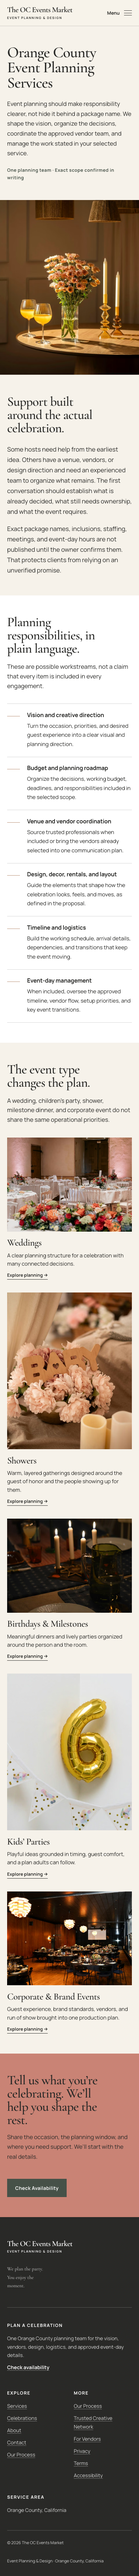
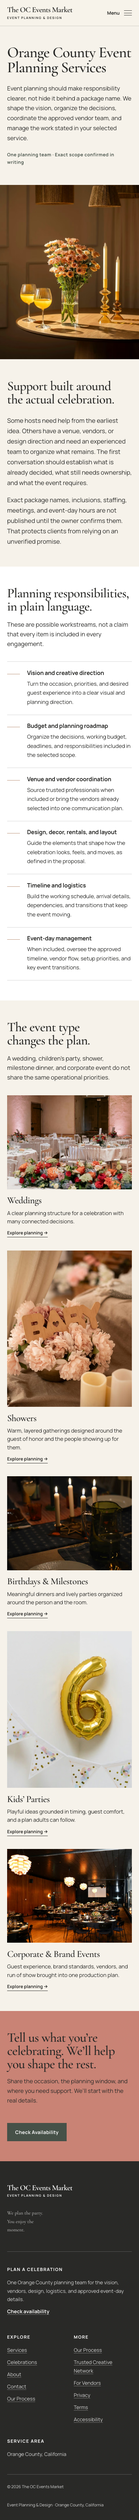
Balance mobile heading wraps

Changed region(s): [[0.0, 0.0, 1.0, 0.9993], [0.5231, 0.9056, 0.7385, 0.9681], [0.8615, 0.687, 0.9231, 0.7182]]

diff --git a/tests/e2e/site.spec.ts b/tests/e2e/site.spec.ts
@@ -3,7 +3,7 @@ import { publicRoutes } from '../helpers/routes';
 
 test.describe('site contracts', () => {
   for (const route of publicRoutes) {
-    test(`${route} has valid structure and metadata`, async ({ page }) => {
+    test(`${route} has valid structure and metadata`, async ({ page, viewport }) => {
       const response = await page.goto(route, { waitUntil: 'domcontentloaded' });
       expect(response?.status(), route).toBe(200);
       await expect(page.locator('main')).toHaveCount(1);
@@ -19,6 +19,42 @@ test.describe('site contracts', () => {
         () => document.documentElement.scrollWidth - window.innerWidth,
       );
       expect(overflow, `${route} horizontal overflow`).toBeLessThanOrEqual(1);
+
+      if (viewport && viewport.width <= 767) {
+        const headingWidths = await page
+          .locator(
+            [
+              '.section-heading h2',
+              '.clarification__copy h2',
+              '.network-statement h2',
+              '.final-cta h2',
+              '.page-hero h1',
+              '.detail-intro h2',
+              '.vendor-flex h2',
+              '.simple-hero h1',
+              '.form-layout__intro h1',
+            ].join(', '),
+          )
+          .evaluateAll((headings) =>
+            headings.map((heading) => {
+              const parent = heading.parentElement;
+              if (!parent) return { text: heading.textContent?.trim(), ratio: 1 };
+              const parentStyle = getComputedStyle(parent);
+              const parentContentWidth =
+                parent.getBoundingClientRect().width -
+                Number.parseFloat(parentStyle.paddingLeft) -
+                Number.parseFloat(parentStyle.paddingRight);
+              return {
+                text: heading.textContent?.trim(),
+                ratio: heading.getBoundingClientRect().width / parentContentWidth,
+              };
+            }),
+          );
+        expect(
+          headingWidths.every(({ ratio }) => ratio >= 0.95),
+          `${route} mobile heading width: ${JSON.stringify(headingWidths)}`,
+        ).toBe(true);
+      }
 
       const imageAltValues = await page
         .locator('img')

diff --git a/src/styles/global.css b/src/styles/global.css
@@ -1469,11 +1469,11 @@
   }
 
   main h1 {
-    font-size: clamp(2.7rem, 11.5vw, 3.65rem);
+    font-size: clamp(2.4rem, 11.5vw, 3.65rem);
   }
 
   main h2 {
-    font-size: clamp(2.2rem, 9.5vw, 3.05rem);
+    font-size: clamp(1.95rem, 9.5vw, 3.05rem);
   }
 
   .brand-lockup__name {
@@ -1538,7 +1538,7 @@
 
   .home-hero h1 {
     max-width: 14ch;
-    font-size: clamp(2.7rem, 11vw, 3.5rem);
+    font-size: clamp(2.4rem, 11vw, 3.5rem);
     line-height: 0.97;
     text-shadow: 0 2px 24px rgb(0 0 0 / 0.42);
     text-wrap: balance;
@@ -1699,7 +1699,7 @@
 
   .page-hero h1 {
     max-width: 13ch;
-    font-size: clamp(2.7rem, 11vw, 3.55rem);
+    font-size: clamp(2.4rem, 11vw, 3.55rem);
     line-height: 0.98;
   }
 
@@ -1769,6 +1769,23 @@
 
   .site-footer__promise {
     max-width: 15ch;
+  }
+
+  main h1,
+  main h2 {
+    text-wrap: balance;
+  }
+
+  .section-heading h2,
+  .clarification__copy h2,
+  .network-statement h2,
+  .final-cta h2,
+  .page-hero h1,
+  .detail-intro h2,
+  .vendor-flex h2,
+  .simple-hero h1,
+  .form-layout__intro h1 {
+    max-width: 100%;
   }
 }
 
